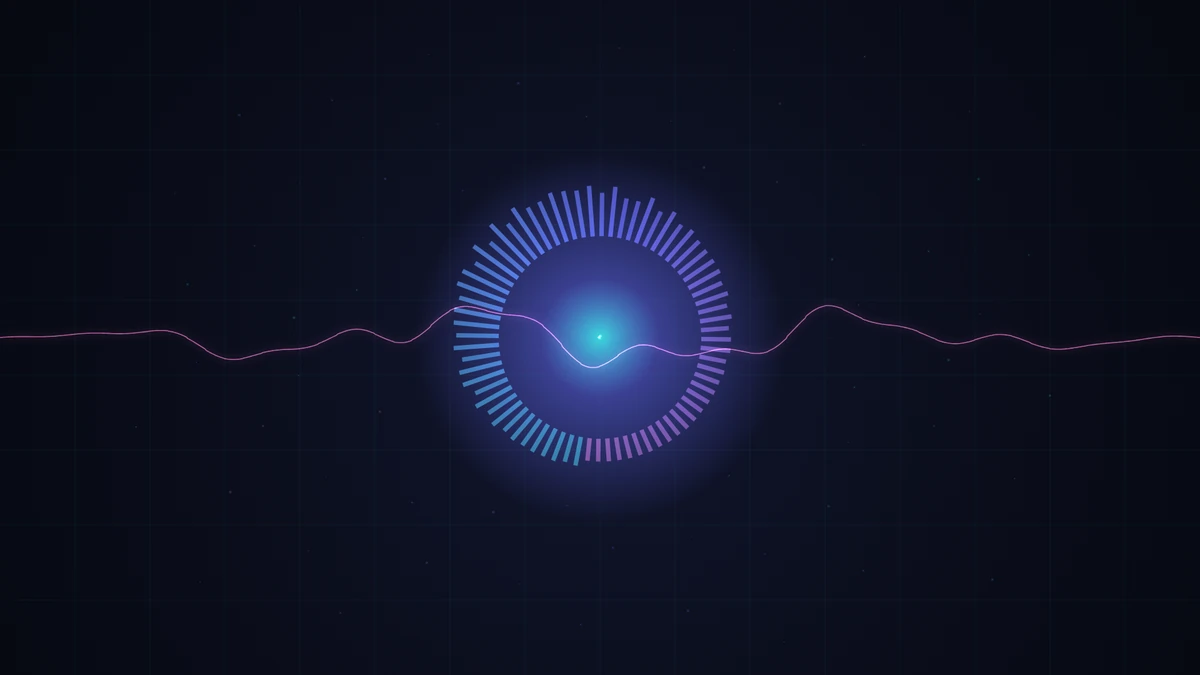
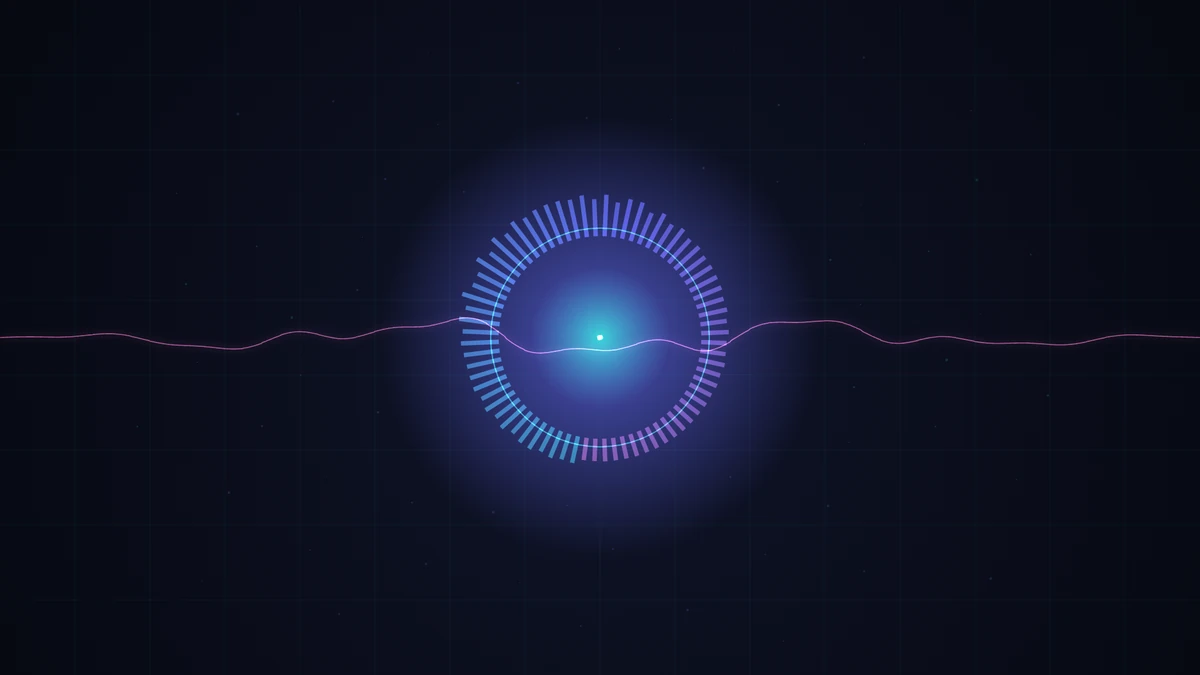
Add an animated preview to the README
The stills show what each mode looks like, but a real-time visualizer is not
something a still can demonstrate. The README now leads with a five-second
animated WebP captured straight off the canvas.

Frames are collected by tools/make-shots.mjs (no ffmpeg here, so they come off
the canvas) and stitched by tools/make_assets.py. Every second frame is kept:
this content is all fine detail and resists compression, so frame count is the
lever that matters — dropping every other frame halves the file while keeping
the same five seconds of motion.

That pushes the docs/ total to 860 KB, so the size check now allows 1.5 MB. It
still catches an accidental multi-megabyte screenshot, which is the point.

Changed region(s): [[0.2775, 0.28, 0.9558, 0.6844], [0.1233, 0.4978, 0.2775, 0.5289], [0.0617, 0.4667, 0.1233, 0.4978]]

diff --git a/tools/make_assets.py b/tools/make_assets.py
@@ -133,6 +133,35 @@ def icon(size: int) -> Image.Image:
     return img
 
 
+def make_animation() -> None:
+    """Assemble .agent_tmp/shots/frames/ into docs/preview.webp.
+
+    A still cannot show a real-time visualizer doing anything, and there is no
+    ffmpeg here, so the frames are collected off the canvas and stitched into an
+    animated WebP.
+
+    Every second frame is kept. This content is all fine detail and resists
+    compression, so frame count is the lever that actually matters: dropping
+    every other frame halves the file while keeping the same five seconds of
+    motion at 180 ms per frame, which is plenty for a preview loop.
+    """
+    src = ROOT / ".agent_tmp/shots/frames"
+    frames = sorted(src.glob("f*.png")) if src.is_dir() else []
+    if len(frames) < 2:
+        print("  (no frames; run tools/make-shots.mjs first)")
+        return
+    step = 2
+    imgs = [Image.open(p).convert("RGB") for p in frames[::step]]
+    out = ROOT / "docs"
+    out.mkdir(parents=True, exist_ok=True)
+    dest = out / "preview.webp"
+    imgs[0].save(
+        dest, "WEBP", save_all=True, append_images=imgs[1:],
+        duration=90 * step, loop=0, quality=68, method=6,
+    )
+    print(f"  wrote docs/preview.webp  {imgs[0].size}  {len(imgs)} frames  {dest.stat().st_size // 1024} KB")
+
+
 def optimise_shots() -> None:
     """Downscale .agent_tmp/shots/*.png into docs/ for the README.
 
@@ -169,6 +198,7 @@ def main() -> None:
         ic.save(ASSETS / f"icon-{s}.png", "PNG", optimize=True)
         print(f"  wrote assets/icon-{s}.png  {ic.size}")
     optimise_shots()
+    make_animation()
     print("done")
 
 

diff --git a/README.md b/README.md
@@ -13,6 +13,10 @@ JavaScript, satu mesin analisis, enam renderer.
 
 <p align="center"><sub><i>Mode Unified berjalan di atas feed demo — tangkapan dari aplikasi yang sedang berjalan.</i></sub></p>
 
+<img src="docs/preview.webp" alt="Pratinjau bergerak: panggung Unifier bereaksi terhadap sinyal demo" width="100%">
+
+<p align="center"><sub><i>Pratinjau bergerak — diambil langsung dari kanvas, 28 bingkai. Visualisasi real-time tidak bisa ditunjukkan oleh gambar diam.</i></sub></p>
+
 ---
 
 ## Apa yang diuji
@@ -219,8 +223,8 @@ js/app.js                UI, loop RAF, HUD, perekam + ekspor PNG, status URL
 tools/build.py           build satu berkas + robots/sitemap/manifest
 tools/make_assets.py     kartu sosial + ikon (Pillow)
 tools/ws-server.mjs      feed peristiwa demo (WebSocket, tanpa dependensi)
-tools/make-shots.mjs     tangkapan layar README dari halaman yang berjalan
-docs/                    gambar README (WebP, diperkecil)
+tools/make-shots.mjs     tangkapan layar + bingkai animasi untuk README
+docs/                    gambar README (WebP statis + pratinjau bergerak)
 tools/test/smoke.mjs     108 pemeriksaan di Chromium sungguhan
 ```
 
